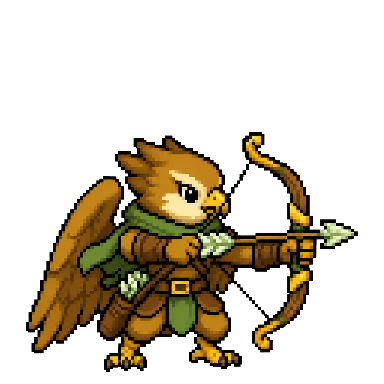
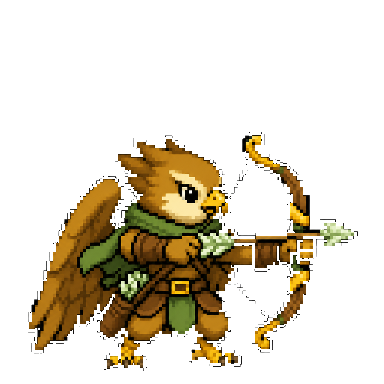
Fix gale hawk baked-in checkerboard background.

diff --git a/game.js b/game.js
@@ -138,7 +138,7 @@
 
   const EXTRA_ALLY_SPRITES = {
     lightning_otter: { image: new Image(), src: "assets/pixel-ally-lightning-otter-v1.png", crop: [18, 107, 366, 380] },
-    gale_hawk: { image: new Image(), src: "assets/pixel-ally-gale-hawk-v1.png", crop: [18, 124, 366, 380] },
+    gale_hawk: { image: new Image(), src: "assets/pixel-ally-gale-hawk-v2.png", crop: [18, 124, 366, 380] },
     herb_hedgehog: { image: new Image(), src: "assets/pixel-ally-herb-hedgehog-v1.png", crop: [18, 106, 366, 380] },
   };
   const EXTRA_ENEMY_SPRITES = {
@@ -148,13 +148,19 @@
     mooncap_witch: { image: new Image(), src: "assets/pixel-enemy-mooncap-witch-v2.png", crop: [18, 58, 366, 380] },
   };
   for (const sprite of Object.values(EXTRA_ALLY_SPRITES)) {
-    sprite.image.src = sprite.src;
     sprite.image.addEventListener("load", () => {
+      sprite.sheet = stripSpriteBackdrop(sprite.image);
       renderCardPortraits();
       renderDeckBuilder();
     });
+    sprite.image.src = sprite.src;
   }
-  for (const sprite of Object.values(EXTRA_ENEMY_SPRITES)) sprite.image.src = sprite.src;
+  for (const sprite of Object.values(EXTRA_ENEMY_SPRITES)) {
+    sprite.image.addEventListener("load", () => {
+      sprite.sheet = stripSpriteBackdrop(sprite.image);
+    });
+    sprite.image.src = sprite.src;
+  }
 
   const ALLY_CROPS = [
     [12, 345, 303, 675],
@@ -228,6 +234,86 @@
     }
     surfaceCtx.putImageData(frame, 0, 0);
     return surface;
+  }
+
+  function stripSpriteBackdrop(image) {
+    try {
+    const surface = document.createElement("canvas");
+    surface.width = image.naturalWidth;
+    surface.height = image.naturalHeight;
+    const surfaceCtx = surface.getContext("2d", { willReadFrequently: true });
+    surfaceCtx.drawImage(image, 0, 0);
+    const frame = surfaceCtx.getImageData(0, 0, surface.width, surface.height);
+    const pixels = frame.data;
+    const width = surface.width;
+    const height = surface.height;
+    const total = width * height;
+    const light = new Uint8Array(total);
+    const density = new Uint16Array(total);
+    for (let index = 0; index < total; index++) {
+      const p = index * 4;
+      if (pixels[p + 3] < 250) continue;
+      const r = pixels[p];
+      const g = pixels[p + 1];
+      const b = pixels[p + 2];
+      const min = Math.min(r, g, b);
+      const max = Math.max(r, g, b);
+      if (min >= 200 && max - min < 14) light[index] = 1;
+    }
+    for (let index = 0; index < total; index++) {
+      if (!light[index]) continue;
+      const x = index % width;
+      const y = (index / width) | 0;
+      let count = 0;
+      for (let oy = -2; oy <= 2; oy++) {
+        const ny = y + oy;
+        if (ny < 0 || ny >= height) continue;
+        for (let ox = -2; ox <= 2; ox++) {
+          const nx = x + ox;
+          if (nx < 0 || nx >= width) continue;
+          count += light[ny * width + nx];
+        }
+      }
+      density[index] = count;
+    }
+    for (let index = 0; index < total; index++) {
+      if (light[index] && density[index] >= 8) pixels[index * 4 + 3] = 0;
+    }
+    const visited = new Uint8Array(total);
+    const queue = new Int32Array(total);
+    let head = 0;
+    let tail = 0;
+    const enqueue = (index) => {
+      if (index < 0 || index >= total || visited[index]) return;
+      const p = index * 4;
+      const alpha = pixels[p + 3];
+      const max = Math.max(pixels[p], pixels[p + 1], pixels[p + 2]);
+      if (alpha < 8 || max <= 16) {
+        visited[index] = 1;
+        queue[tail++] = index;
+      }
+    };
+    for (let index = 0; index < total; index++) {
+      if (pixels[index * 4 + 3] < 8) enqueue(index);
+    }
+    while (head < tail) {
+      const index = queue[head++];
+      const x = index % width;
+      if (x > 0) enqueue(index - 1);
+      if (x < width - 1) enqueue(index + 1);
+      if (index >= width) enqueue(index - width);
+      if (index < total - width) enqueue(index + width);
+    }
+    for (let index = 0; index < total; index++) {
+      if (visited[index] && Math.max(pixels[index * 4], pixels[index * 4 + 1], pixels[index * 4 + 2]) <= 16) {
+        pixels[index * 4 + 3] = 0;
+      }
+    }
+    surfaceCtx.putImageData(frame, 0, 0);
+    return surface;
+    } catch (error) {
+      return image;
+    }
   }
 
   allySheet.addEventListener("load", () => {
@@ -1673,8 +1759,8 @@
   function unitSprite(type) {
     const extraSprite = EXTRA_ALLY_SPRITES[type.id];
     if (extraSprite) {
-      return extraSprite.image.complete && extraSprite.image.naturalWidth
-        ? { sheet: extraSprite.image, crop: extraSprite.crop, unique: true }
+      return extraSprite.sheet
+        ? { sheet: extraSprite.sheet, crop: extraSprite.crop, unique: true }
         : null;
     }
     if (type.id === "titan") {
@@ -2556,17 +2642,16 @@
     const ally = actor.team === "ally";
     const extraAllySprite = ally ? EXTRA_ALLY_SPRITES[actor.id] : null;
     const extraEnemySprite = ally ? null : EXTRA_ENEMY_SPRITES[actor.id];
+    if ((extraAllySprite && !extraAllySprite.sheet) || (extraEnemySprite && !extraEnemySprite.sheet)) return;
+    const extraSheet = extraAllySprite?.sheet || extraEnemySprite?.sheet || null;
     const isRockShield = ally && actor.id === "titan";
     const unlockIndex = ally ? UNLOCKABLE_SPRITE_INDEX[actor.id] : undefined;
     const hasUnlockableSprite = ally && unlockIndex !== undefined;
-    const hasUniqueSprite = Boolean(extraAllySprite || extraEnemySprite) || isRockShield || hasUnlockableSprite;
-    const sheet = extraAllySprite
-      ? extraAllySprite.image
-      : (extraEnemySprite
-        ? extraEnemySprite.image
-        : (isRockShield
-          ? rockShieldPixels
-          : (hasUnlockableSprite ? unlockablePixels : (ally ? allyPixels : enemyPixels))));
+    const hasUniqueSprite = Boolean(extraSheet) || isRockShield || hasUnlockableSprite;
+    const sheet = extraSheet
+      || (isRockShield
+        ? rockShieldPixels
+        : (hasUnlockableSprite ? unlockablePixels : (ally ? allyPixels : enemyPixels)));
     const uniqueAlly = hasUniqueSprite && Boolean(sheet);
     const index = ally
       ? (ALLY_SPRITE_INDEX[actor.kind] ?? actor.sprite ?? 0)

diff --git a/sw.js b/sw.js
@@ -1,4 +1,4 @@
-const CACHE_NAME = "fur-frontline-offline-v2";
+const CACHE_NAME = "fur-frontline-offline-v3";
 const APP_SHELL = [
   "./", "./index.html", "./styles.css", "./game.js", "./firebase-config.js",
   "./firebase-save.js", "./pwa.js", "./manifest.webmanifest", "./assets/app-icon.svg",
@@ -8,7 +8,7 @@ const APP_SHELL = [
   "./assets/pixel-stage-ch6-palace-v1.png", "./assets/pixel-stage-ch7-fortress-v1.png",
   "./assets/pixel-stage-ch8-throne-v1.png", "./assets/pixel-allies-keyed.png",
   "./assets/pixel-allies-unlockables-v4.png", "./assets/pixel-ally-rockshield-v1.png",
-  "./assets/pixel-ally-lightning-otter-v1.png", "./assets/pixel-ally-gale-hawk-v1.png",
+  "./assets/pixel-ally-lightning-otter-v1.png", "./assets/pixel-ally-gale-hawk-v2.png",
   "./assets/pixel-ally-herb-hedgehog-v1.png", "./assets/pixel-enemies-keyed.png",
   "./assets/pixel-enemy-bloodwing-bat-v2.png", "./assets/pixel-enemy-bone-raven-v3.png",
   "./assets/pixel-enemy-siege-rhino-v2.png", "./assets/pixel-enemy-mooncap-witch-v2.png"

diff --git a/index.html b/index.html
@@ -219,7 +219,7 @@
 
   <script src="firebase-config.js?v=2"></script>
   <script type="module" src="firebase-save.js?v=1"></script>
-  <script src="game.js?v=30"></script>
+  <script src="game.js?v=31"></script>
   <script src="pwa.js?v=2"></script>
 </body>
 </html>
